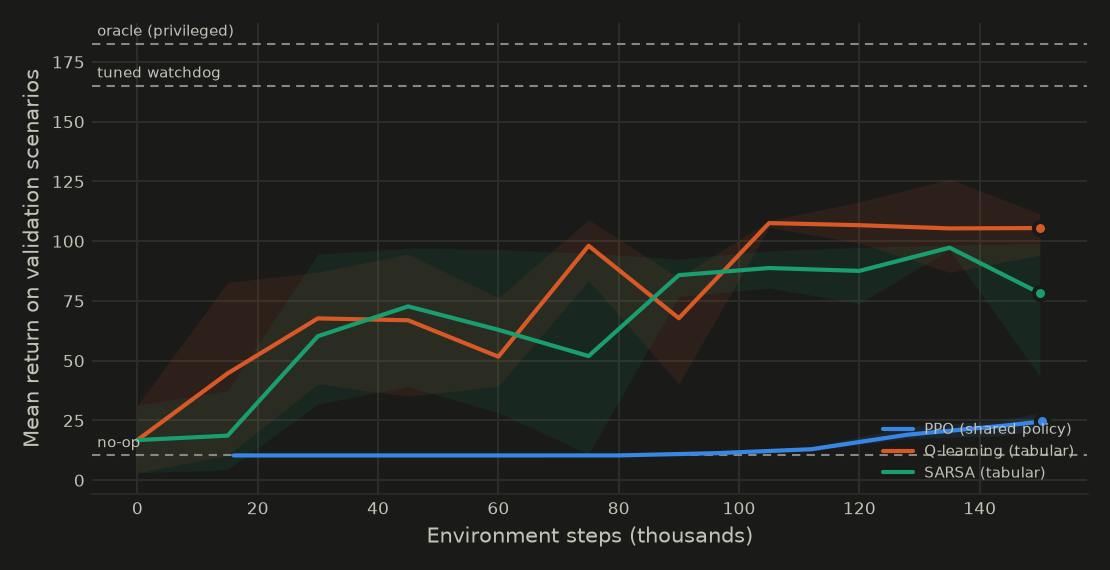
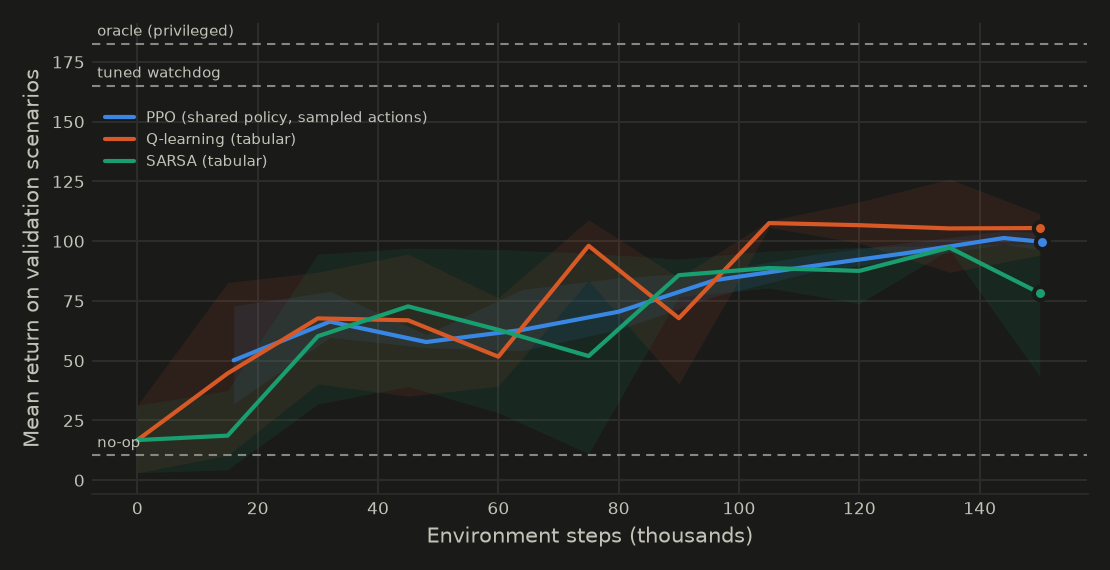
Fix the PPO learning curve and explain the results table
- Learning curves plot PPO in the evaluation mode chosen on validation
  (sampled actions), not the greedy series; legend moved off the curves
- Snapshot panel titles on two lines so they fit
- docs/results.md explains, from the summary, that containment alone is
  gamed by blanket blocking, that learned policies over-block, and why the
  SARSA interval is wide (per-seed returns)

Implemented by Codex from an orchestrator brief; reviewed before commit.

diff --git a/scripts/make_figures.py b/scripts/make_figures.py
@@ -119,16 +119,21 @@ def fig_curves(summary: dict[str, Any], theme: str) -> Path:
     ax.grid(axis="y", color=th["grid"], lw=1)
     for slot, algo in zip(("s1", "s2", "s3"), LEARNED, strict=True):
         runs = summary["curves"].get(algo) or {}
-        series = [[r for r in rows if "val_return" in r] for rows in runs.values()]
+        sampled = algo == "ppo" and summary["meta"].get("ppo_eval_mode") == "sampled"
+        key = "val_return_sampled" if sampled else "val_return"
+        label = LABELS[algo]
+        if algo == "ppo":
+            label = f"PPO (shared policy, {'sampled actions' if sampled else 'greedy'})"
+        series = [[r for r in rows if key in r] for rows in runs.values()]
         series = [s for s in series if s]
         if not series:
             continue
         n = min(len(s) for s in series)
         x = np.array([r["env_steps"] for r in series[0][:n]]) / 1000
-        y = np.array([[r["val_return"] for r in s[:n]] for s in series])
+        y = np.array([[r[key] for r in s[:n]] for s in series])
         mean = y.mean(axis=0)
         ax.fill_between(x, y.min(axis=0), y.max(axis=0), color=th[slot], alpha=0.10, lw=0)
-        ax.plot(x, mean, color=th[slot], lw=2, solid_capstyle="round", label=LABELS[algo])
+        ax.plot(x, mean, color=th[slot], lw=2, solid_capstyle="round", label=label)
         ax.scatter(
             [x[-1]],
             [mean[-1]],
@@ -156,7 +161,13 @@ def fig_curves(summary: dict[str, Any], theme: str) -> Path:
             )
     ax.set_xlabel("Environment steps (thousands)")
     ax.set_ylabel("Mean return on validation scenarios")
-    ax.legend(loc="lower right", fontsize=7, frameon=False, labelcolor=th["ink2"])
+    ax.legend(
+        loc="upper left",
+        bbox_to_anchor=(0, 0.84),
+        fontsize=7,
+        frameon=False,
+        labelcolor=th["ink2"],
+    )
     fig.tight_layout()
     out = FIG / f"learning_curves_{theme}.png"
     fig.savefig(out, facecolor=th["surface"])
@@ -201,7 +212,7 @@ def fig_snapshot(summary: dict[str, Any], theme: str, t_stop: int = 90) -> Path:
             break
     fig, axes = plt.subplots(1, 2, figsize=(9.4, 5.0), dpi=150, facecolor=th["surface"])
     for ax, sim, title in ((axes[0], a, "No defense"), (axes[1], b, f"Defended by {name}")):
-        info = f"{title}: {int(sim.comp[: sim.n].sum())} of {sim.n} drones compromised at t = {sim.t} s"
+        info = f"{title}\n{int(sim.comp[: sim.n].sum())} of {sim.n} drones compromised at t = {sim.t} s"
         draw_snapshot(ax, sim.snapshot(), spec, theme, info)
     fig.legend(
         handles=legend_handles(theme),
@@ -283,6 +294,18 @@ def results_tables(summary: dict[str, Any]) -> tuple[str, str]:
 def write_results_md(summary: dict[str, Any]) -> Path:
     meta = summary["meta"]
     main, ood = results_tables(summary)
+    s = summary["summary"]
+    random = s["random"]["test"]
+    tuned_false_blocks = s["watchdog_tuned"]["test"]["false_blocks"][0]
+    learned_false_blocks = "; ".join(
+        f"{LABELS[algo]} {s[algo]['test']['false_blocks'][0]:.1f} vs tuned watchdog"
+        f" {tuned_false_blocks:.1f}"
+        for algo in LEARNED
+    )
+    sarsa_returns = ", ".join(
+        f"seed {seed}: {ret:.1f}"
+        for seed, ret in zip(meta["seeds"], s["sarsa"]["test"]["per_seed_ret"], strict=True)
+    )
     paired = summary.get("paired_vs_watchdog_tuned_test", {})
     n_val = meta["val"]["n"]
     ood_sizes = ", ".join(
@@ -308,6 +331,13 @@ def write_results_md(summary: dict[str, Any]) -> Path:
         "Availability is the per-step mission availability averaged over the episode; the compromised share",
         "is averaged over the episode; contained means that the active threat was suppressed for at least",
         "5 consecutive steps.",
+        "",
+        f"Containment alone is gamed by blanket blocking: the random policy achieves"
+        f" {100 * random['contained'][0]:.0f} % containment with"
+        f" {random['false_blocks'][0]:.1f} false blocks per episode. The learned policies"
+        f" block far more than the watchdogs (mean false blocks per episode:"
+        f" {learned_false_blocks}). The SARSA interval is wide because one training seed"
+        f" failed; its per-seed test returns are {sarsa_returns}.",
         "",
         f"## Out-of-distribution families (return; scenarios per family: {ood_sizes})",
         "",

diff --git a/docs/results.md b/docs/results.md
@@ -26,6 +26,8 @@ Availability is the per-step mission availability averaged over the episode; the
 is averaged over the episode; contained means that the active threat was suppressed for at least
 5 consecutive steps.
 
+Containment alone is gamed by blanket blocking: the random policy achieves 100 % containment with 129.1 false blocks per episode. The learned policies block far more than the watchdogs (mean false blocks per episode: PPO (shared policy) 196.5 vs tuned watchdog 4.4; Q-learning (tabular) 200.7 vs tuned watchdog 4.4; SARSA (tabular) 168.2 vs tuned watchdog 4.4). The SARSA interval is wide because one training seed failed; its per-seed test returns are seed 0: 90.0, seed 1: 96.3, seed 2: 39.1.
+
 ## Out-of-distribution families (return; scenarios per family: larger swarms (21-24 drones) 60, flood-heavy attacks 60, stealthy implants (stealth >= 0.5) 60)
 
 | Policy | Test (in-distribution) | Larger swarms (21-24 drones) | Flood-heavy attacks | Stealthy implants (stealth >= 0.5) |
